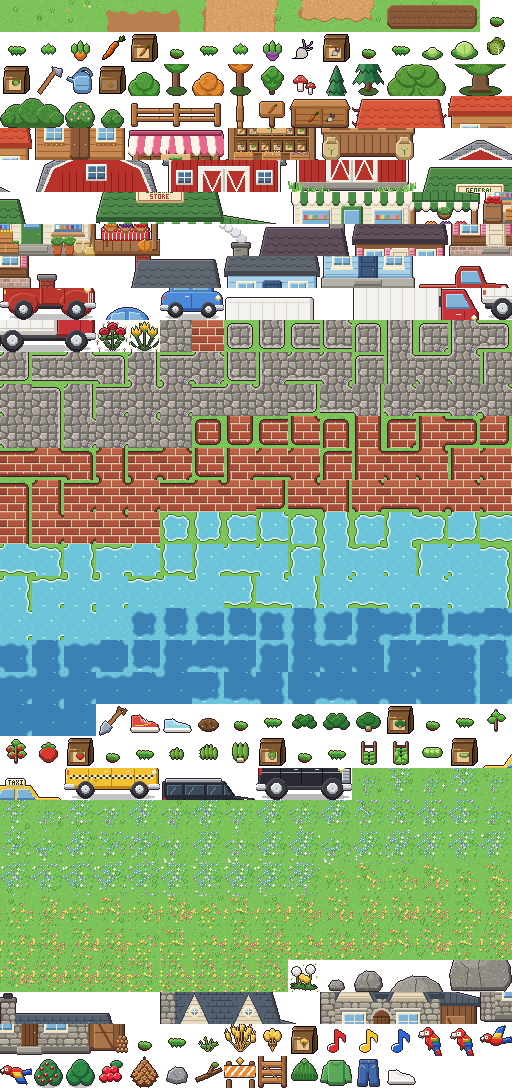
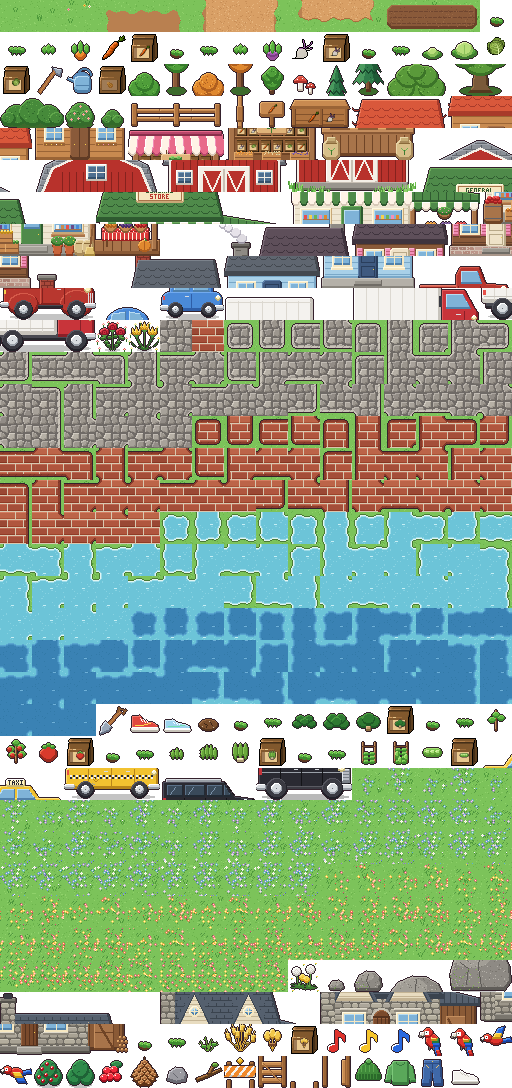
First story quest: Fredrick's pinecones unlock the road's gate
Talking to Fredrick asks for 5 pinecones (he reminds you while you're short,
then opens his shop). Handing them in pays 5g, and the road's gate swings open
at 1 AM that night, or by morning if you sleep first. Quest progress is saved.
New open-gate art; talk boxes work for shopkeepers too.

Claude-Session: https://claude.ai/code/session_015p9zHqe761HPZ9r97hGy59

Changed region(s): [[0.5625, 0.9688, 0.9375, 1.0]]

diff --git a/src/art-index.js b/src/art-index.js
@@ -1,2 +1,2 @@
 // Generated by tools/make_art.py: tile names -> index in assets/art/world.png (16 columns of 32x32).
-export const A = {"grass0": 0, "grass1": 1, "grass2": 2, "path0": 3, "path1": 4, "path2": 5, "path3": 6, "path4": 7, "path5": 8, "path6": 9, "path7": 10, "path8": 11, "soil0": 12, "soil1": 13, "soil2": 14, "carrot0": 15, "carrot1": 16, "carrot2": 17, "carrot3": 18, "carrot_item": 19, "carrot_packet": 20, "turnip0": 21, "turnip1": 22, "turnip2": 23, "turnip3": 24, "turnip_item": 25, "turnip_packet": 26, "cabbage0": 27, "cabbage1": 28, "cabbage2": 29, "cabbage3": 30, "cabbage_item": 31, "cabbage_packet": 32, "hoe": 33, "can": 34, "bag": 35, "tree_green_0": 36, "tree_green_1": 37, "tree_orange_0": 38, "tree_orange_1": 39, "tree": 40, "mushrooms": 41, "pine_0": 42, "pine_1": 43, "oak_0": 44, "oak_1": 45, "oak_2": 46, "oak_3": 47, "shrub_large_0": 48, "shrub_large_1": 49, "shrub_flower": 50, "shrub_small": 51, "fence0": 52, "fence1": 53, "fence2": 54, "fence3": 55, "sign": 56, "bin_0": 57, "bin_1": 58, "house_0": 59, "house_1": 60, "house_2": 61, "house_3": 62, "house_4": 63, "house_5": 64, "house_6": 65, "house_7": 66, "house_8": 67, "shop_0": 68, "shop_1": 69, "shop_2": 70, "shop_3": 71, "shop_4": 72, "shop_5": 73, "shop_6": 74, "shop_7": 75, "shop_8": 76, "barn_0": 77, "barn_1": 78, "barn_2": 79, "barn_3": 80, "barn_4": 81, "barn_5": 82, "barn_6": 83, "barn_7": 84, "barn_8": 85, "barn_9": 86, "barn_10": 87, "barn_11": 88, "barn_12": 89, "barn_13": 90, "barn_14": 91, "barn_15": 92, "store_0": 93, "store_1": 94, "store_2": 95, "store_3": 96, "store_4": 97, "store_5": 98, "store_6": 99, "store_7": 100, "store_8": 101, "store_9": 102, "store_10": 103, "store_11": 104, "store_12": 105, "store_13": 106, "store_14": 107, "store_15": 108, "store_16": 109, "store_17": 110, "store_18": 111, "store_19": 112, "store_20": 113, "store_21": 114, "store_22": 115, "store_23": 116, "house_brown_0": 117, "house_brown_1": 118, "house_brown_2": 119, "house_brown_3": 120, "house_brown_4": 121, "house_brown_5": 122, "house_brown_6": 123, "house_brown_7": 124, "house_brown_8": 125, "house_brown_9": 126, "house_brown_10": 127, "house_brown_11": 128, "house_blue_0": 129, "house_blue_1": 130, "house_blue_2": 131, "house_blue_3": 132, "house_blue_4": 133, "house_blue_5": 134, "house_blue_6": 135, "house_blue_7": 136, "house_blue_8": 137, "house_blue_9": 138, "house_blue_10": 139, "house_blue_11": 140, "pickup_0": 141, "pickup_1": 142, "pickup_2": 143, "pickup_3": 144, "pickup_4": 145, "pickup_5": 146, "car_small_0": 147, "car_small_1": 148, "car_small_2": 149, "car_small_3": 150, "box_truck_0": 151, "box_truck_1": 152, "box_truck_2": 153, "box_truck_3": 154, "box_truck_4": 155, "box_truck_5": 156, "box_truck_6": 157, "box_truck_7": 158, "box_truck_8": 159, "box_truck_9": 160, "box_truck_10": 161, "box_truck_11": 162, "roses": 163, "tulips": 164, "cobble0": 165, "brick0": 166, "cobbleb0": 167, "cobbleb1": 168, "cobbleb2": 169, "cobbleb3": 170, "cobbleb4": 171, "cobbleb5": 172, "cobbleb6": 173, "cobbleb7": 174, "cobbleb8": 175, "cobbleb9": 176, "cobbleb10": 177, "cobbleb11": 178, "cobbleb12": 179, "cobbleb13": 180, "cobbleb14": 181, "cobbleb15": 182, "cobbleb16": 183, "cobbleb17": 184, "cobbleb18": 185, "cobbleb19": 186, "cobbleb20": 187, "cobbleb21": 188, "cobbleb22": 189, "cobbleb23": 190, "cobbleb24": 191, "cobbleb25": 192, "cobbleb26": 193, "cobbleb27": 194, "cobbleb28": 195, "cobbleb29": 196, "cobbleb30": 197, "cobbleb31": 198, "cobbleb32": 199, "cobbleb33": 200, "cobbleb34": 201, "cobbleb35": 202, "cobbleb36": 203, "cobbleb37": 204, "cobbleb38": 205, "cobbleb39": 206, "cobbleb40": 207, "cobbleb41": 208, "cobbleb42": 209, "cobbleb43": 210, "cobbleb44": 211, "cobbleb45": 212, "cobbleb46": 213, "brickb0": 214, "brickb1": 215, "brickb2": 216, "brickb3": 217, "brickb4": 218, "brickb5": 219, "brickb6": 220, "brickb7": 221, "brickb8": 222, "brickb9": 223, "brickb10": 224, "brickb11": 225, "brickb12": 226, "brickb13": 227, "brickb14": 228, "brickb15": 229, "brickb16": 230, "brickb17": 231, "brickb18": 232, "brickb19": 233, "brickb20": 234, "brickb21": 235, "brickb22": 236, "brickb23": 237, "brickb24": 238, "brickb25": 239, "brickb26": 240, "brickb27": 241, "brickb28": 242, "brickb29": 243, "brickb30": 244, "brickb31": 245, "brickb32": 246, "brickb33": 247, "brickb34": 248, "brickb35": 249, "brickb36": 250, "brickb37": 251, "brickb38": 252, "brickb39": 253, "brickb40": 254, "brickb41": 255, "brickb42": 256, "brickb43": 257, "brickb44": 258, "brickb45": 259, "brickb46": 260, "shallow0": 261, "shallow1": 262, "shallow2": 263, "shallow3": 264, "shallow4": 265, "shallow5": 266, "shallow6": 267, "shallow7": 268, "shallow8": 269, "shallow9": 270, "shallow10": 271, "shallow11": 272, "shallow12": 273, "shallow13": 274, "shallow14": 275, "shallow15": 276, "shallow16": 277, "shallow17": 278, "shallow18": 279, "shallow19": 280, "shallow20": 281, "shallow21": 282, "shallow22": 283, "shallow23": 284, "shallow24": 285, "shallow25": 286, "shallow26": 287, "shallow27": 288, "shallow28": 289, "shallow29": 290, "shallow30": 291, "shallow31": 292, "shallow32": 293, "shallow33": 294, "shallow34": 295, "shallow35": 296, "shallow36": 297, "shallow37": 298, "shallow38": 299, "shallow39": 300, "shallow40": 301, "shallow41": 302, "shallow42": 303, "shallow43": 304, "shallow44": 305, "shallow45": 306, "shallow46": 307, "deep0": 308, "deep1": 309, "deep2": 310, "deep3": 311, "deep4": 312, "deep5": 313, "deep6": 314, "deep7": 315, "deep8": 316, "deep9": 317, "deep10": 318, "deep11": 319, "deep12": 320, "deep13": 321, "deep14": 322, "deep15": 323, "deep16": 324, "deep17": 325, "deep18": 326, "deep19": 327, "deep20": 328, "deep21": 329, "deep22": 330, "deep23": 331, "deep24": 332, "deep25": 333, "deep26": 334, "deep27": 335, "deep28": 336, "deep29": 337, "deep30": 338, "deep31": 339, "deep32": 340, "deep33": 341, "deep34": 342, "deep35": 343, "deep36": 344, "deep37": 345, "deep38": 346, "deep39": 347, "deep40": 348, "deep41": 349, "deep42": 350, "deep43": 351, "deep44": 352, "deep45": 353, "deep46": 354, "shovel": 355, "shoes": 356, "sneakers": 357, "dig_spot": 358, "spinach0": 359, "spinach1": 360, "spinach2": 361, "spinach3": 362, "spinach_item": 363, "spinach_packet": 364, "tomato0": 365, "tomato1": 366, "tomato2": 367, "tomato3": 368, "tomato_item": 369, "tomato_packet": 370, "arugula0": 371, "arugula1": 372, "arugula2": 373, "arugula3": 374, "arugula_item": 375, "arugula_packet": 376, "peas0": 377, "peas1": 378, "peas2": 379, "peas3": 380, "peas_item": 381, "peas_packet": 382, "taxi_0": 383, "taxi_1": 384, "taxi_2": 385, "taxi_3": 386, "taxi_4": 387, "taxi_5": 388, "suv_0": 389, "suv_1": 390, "suv_2": 391, "suv_3": 392, "suv_4": 393, "suv_5": 394, "wildcool0": 395, "wildcool1": 396, "wildcool2": 397, "wildcool3": 398, "wildcool4": 399, "wildcool5": 400, "wildcool6": 401, "wildcool7": 402, "wildcool8": 403, "wildcool9": 404, "wildcool10": 405, "wildcool11": 406, "wildcool12": 407, "wildcool13": 408, "wildcool14": 409, "wildcool15": 410, "wildcool16": 411, "wildcool17": 412, "wildcool18": 413, "wildcool19": 414, "wildcool20": 415, "wildcool21": 416, "wildcool22": 417, "wildcool23": 418, "wildcool24": 419, "wildcool25": 420, "wildcool26": 421, "wildcool27": 422, "wildcool28": 423, "wildcool29": 424, "wildcool30": 425, "wildcool31": 426, "wildcool32": 427, "wildcool33": 428, "wildcool34": 429, "wildcool35": 430, "wildcool36": 431, "wildcool37": 432, "wildcool38": 433, "wildcool39": 434, "wildcool40": 435, "wildcool41": 436, "wildcool42": 437, "wildcool43": 438, "wildcool44": 439, "wildcool45": 440, "wildcool46": 441, "wildwarm0": 442, "wildwarm1": 443, "wildwarm2": 444, "wildwarm3": 445, "wildwarm4": 446, "wildwarm5": 447, "wildwarm6": 448, "wildwarm7": 449, "wildwarm8": 450, "wildwarm9": 451, "wildwarm10": 452, "wildwarm11": 453, "wildwarm12": 454, "wildwarm13": 455, "wildwarm14": 456, "wildwarm15": 457, "wildwarm16": 458, "wildwarm17": 459, "wildwarm18": 460, "wildwarm19": 461, "wildwarm20": 462, "wildwarm21": 463, "wildwarm22": 464, "wildwarm23": 465, "wildwarm24": 466, "wildwarm25": 467, "wildwarm26": 468, "wildwarm27": 469, "wildwarm28": 470, "wildwarm29": 471, "wildwarm30": 472, "wildwarm31": 473, "wildwarm32": 474, "wildwarm33": 475, "wildwarm34": 476, "wildwarm35": 477, "wildwarm36": 478, "wildwarm37": 479, "wildwarm38": 480, "wildwarm39": 481, "wildwarm40": 482, "wildwarm41": 483, "wildwarm42": 484, "wildwarm43": 485, "wildwarm44": 486, "wildwarm45": 487, "wildwarm46": 488, "dandelions": 489, "rock_small": 490, "rock_medium": 491, "rock_large_0": 492, "rock_large_1": 493, "rock_large_2": 494, "rock_large_3": 495, "stone_house_0": 496, "stone_house_1": 497, "stone_house_2": 498, "stone_house_3": 499, "stone_house_4": 500, "stone_house_5": 501, "stone_house_6": 502, "stone_house_7": 503, "stone_house_8": 504, "stone_house_9": 505, "stone_house_10": 506, "stone_house_11": 507, "stone_house_12": 508, "stone_house_13": 509, "stone_house_14": 510, "stone_house_15": 511, "stone_house_16": 512, "stone_house_17": 513, "stone_house_18": 514, "stone_house_19": 515, "wheat0": 516, "wheat1": 517, "wheat2": 518, "wheat3": 519, "wheat_item": 520, "wheat_packet": 521, "note_red": 522, "note_yellow": 523, "note_blue": 524, "bird0": 525, "bird1": 526, "bird_fly0": 527, "bird_fly1": 528, "berry_bush": 529, "berry_bush_bare": 530, "berries": 531, "pinecone": 532, "stone": 533, "stick": 534, "gate_0": 535, "gate_1": 536, "beanie": 537, "longsleeve": 538, "jeans": 539, "white_sneakers": 540};
+export const A = {"grass0": 0, "grass1": 1, "grass2": 2, "path0": 3, "path1": 4, "path2": 5, "path3": 6, "path4": 7, "path5": 8, "path6": 9, "path7": 10, "path8": 11, "soil0": 12, "soil1": 13, "soil2": 14, "carrot0": 15, "carrot1": 16, "carrot2": 17, "carrot3": 18, "carrot_item": 19, "carrot_packet": 20, "turnip0": 21, "turnip1": 22, "turnip2": 23, "turnip3": 24, "turnip_item": 25, "turnip_packet": 26, "cabbage0": 27, "cabbage1": 28, "cabbage2": 29, "cabbage3": 30, "cabbage_item": 31, "cabbage_packet": 32, "hoe": 33, "can": 34, "bag": 35, "tree_green_0": 36, "tree_green_1": 37, "tree_orange_0": 38, "tree_orange_1": 39, "tree": 40, "mushrooms": 41, "pine_0": 42, "pine_1": 43, "oak_0": 44, "oak_1": 45, "oak_2": 46, "oak_3": 47, "shrub_large_0": 48, "shrub_large_1": 49, "shrub_flower": 50, "shrub_small": 51, "fence0": 52, "fence1": 53, "fence2": 54, "fence3": 55, "sign": 56, "bin_0": 57, "bin_1": 58, "house_0": 59, "house_1": 60, "house_2": 61, "house_3": 62, "house_4": 63, "house_5": 64, "house_6": 65, "house_7": 66, "house_8": 67, "shop_0": 68, "shop_1": 69, "shop_2": 70, "shop_3": 71, "shop_4": 72, "shop_5": 73, "shop_6": 74, "shop_7": 75, "shop_8": 76, "barn_0": 77, "barn_1": 78, "barn_2": 79, "barn_3": 80, "barn_4": 81, "barn_5": 82, "barn_6": 83, "barn_7": 84, "barn_8": 85, "barn_9": 86, "barn_10": 87, "barn_11": 88, "barn_12": 89, "barn_13": 90, "barn_14": 91, "barn_15": 92, "store_0": 93, "store_1": 94, "store_2": 95, "store_3": 96, "store_4": 97, "store_5": 98, "store_6": 99, "store_7": 100, "store_8": 101, "store_9": 102, "store_10": 103, "store_11": 104, "store_12": 105, "store_13": 106, "store_14": 107, "store_15": 108, "store_16": 109, "store_17": 110, "store_18": 111, "store_19": 112, "store_20": 113, "store_21": 114, "store_22": 115, "store_23": 116, "house_brown_0": 117, "house_brown_1": 118, "house_brown_2": 119, "house_brown_3": 120, "house_brown_4": 121, "house_brown_5": 122, "house_brown_6": 123, "house_brown_7": 124, "house_brown_8": 125, "house_brown_9": 126, "house_brown_10": 127, "house_brown_11": 128, "house_blue_0": 129, "house_blue_1": 130, "house_blue_2": 131, "house_blue_3": 132, "house_blue_4": 133, "house_blue_5": 134, "house_blue_6": 135, "house_blue_7": 136, "house_blue_8": 137, "house_blue_9": 138, "house_blue_10": 139, "house_blue_11": 140, "pickup_0": 141, "pickup_1": 142, "pickup_2": 143, "pickup_3": 144, "pickup_4": 145, "pickup_5": 146, "car_small_0": 147, "car_small_1": 148, "car_small_2": 149, "car_small_3": 150, "box_truck_0": 151, "box_truck_1": 152, "box_truck_2": 153, "box_truck_3": 154, "box_truck_4": 155, "box_truck_5": 156, "box_truck_6": 157, "box_truck_7": 158, "box_truck_8": 159, "box_truck_9": 160, "box_truck_10": 161, "box_truck_11": 162, "roses": 163, "tulips": 164, "cobble0": 165, "brick0": 166, "cobbleb0": 167, "cobbleb1": 168, "cobbleb2": 169, "cobbleb3": 170, "cobbleb4": 171, "cobbleb5": 172, "cobbleb6": 173, "cobbleb7": 174, "cobbleb8": 175, "cobbleb9": 176, "cobbleb10": 177, "cobbleb11": 178, "cobbleb12": 179, "cobbleb13": 180, "cobbleb14": 181, "cobbleb15": 182, "cobbleb16": 183, "cobbleb17": 184, "cobbleb18": 185, "cobbleb19": 186, "cobbleb20": 187, "cobbleb21": 188, "cobbleb22": 189, "cobbleb23": 190, "cobbleb24": 191, "cobbleb25": 192, "cobbleb26": 193, "cobbleb27": 194, "cobbleb28": 195, "cobbleb29": 196, "cobbleb30": 197, "cobbleb31": 198, "cobbleb32": 199, "cobbleb33": 200, "cobbleb34": 201, "cobbleb35": 202, "cobbleb36": 203, "cobbleb37": 204, "cobbleb38": 205, "cobbleb39": 206, "cobbleb40": 207, "cobbleb41": 208, "cobbleb42": 209, "cobbleb43": 210, "cobbleb44": 211, "cobbleb45": 212, "cobbleb46": 213, "brickb0": 214, "brickb1": 215, "brickb2": 216, "brickb3": 217, "brickb4": 218, "brickb5": 219, "brickb6": 220, "brickb7": 221, "brickb8": 222, "brickb9": 223, "brickb10": 224, "brickb11": 225, "brickb12": 226, "brickb13": 227, "brickb14": 228, "brickb15": 229, "brickb16": 230, "brickb17": 231, "brickb18": 232, "brickb19": 233, "brickb20": 234, "brickb21": 235, "brickb22": 236, "brickb23": 237, "brickb24": 238, "brickb25": 239, "brickb26": 240, "brickb27": 241, "brickb28": 242, "brickb29": 243, "brickb30": 244, "brickb31": 245, "brickb32": 246, "brickb33": 247, "brickb34": 248, "brickb35": 249, "brickb36": 250, "brickb37": 251, "brickb38": 252, "brickb39": 253, "brickb40": 254, "brickb41": 255, "brickb42": 256, "brickb43": 257, "brickb44": 258, "brickb45": 259, "brickb46": 260, "shallow0": 261, "shallow1": 262, "shallow2": 263, "shallow3": 264, "shallow4": 265, "shallow5": 266, "shallow6": 267, "shallow7": 268, "shallow8": 269, "shallow9": 270, "shallow10": 271, "shallow11": 272, "shallow12": 273, "shallow13": 274, "shallow14": 275, "shallow15": 276, "shallow16": 277, "shallow17": 278, "shallow18": 279, "shallow19": 280, "shallow20": 281, "shallow21": 282, "shallow22": 283, "shallow23": 284, "shallow24": 285, "shallow25": 286, "shallow26": 287, "shallow27": 288, "shallow28": 289, "shallow29": 290, "shallow30": 291, "shallow31": 292, "shallow32": 293, "shallow33": 294, "shallow34": 295, "shallow35": 296, "shallow36": 297, "shallow37": 298, "shallow38": 299, "shallow39": 300, "shallow40": 301, "shallow41": 302, "shallow42": 303, "shallow43": 304, "shallow44": 305, "shallow45": 306, "shallow46": 307, "deep0": 308, "deep1": 309, "deep2": 310, "deep3": 311, "deep4": 312, "deep5": 313, "deep6": 314, "deep7": 315, "deep8": 316, "deep9": 317, "deep10": 318, "deep11": 319, "deep12": 320, "deep13": 321, "deep14": 322, "deep15": 323, "deep16": 324, "deep17": 325, "deep18": 326, "deep19": 327, "deep20": 328, "deep21": 329, "deep22": 330, "deep23": 331, "deep24": 332, "deep25": 333, "deep26": 334, "deep27": 335, "deep28": 336, "deep29": 337, "deep30": 338, "deep31": 339, "deep32": 340, "deep33": 341, "deep34": 342, "deep35": 343, "deep36": 344, "deep37": 345, "deep38": 346, "deep39": 347, "deep40": 348, "deep41": 349, "deep42": 350, "deep43": 351, "deep44": 352, "deep45": 353, "deep46": 354, "shovel": 355, "shoes": 356, "sneakers": 357, "dig_spot": 358, "spinach0": 359, "spinach1": 360, "spinach2": 361, "spinach3": 362, "spinach_item": 363, "spinach_packet": 364, "tomato0": 365, "tomato1": 366, "tomato2": 367, "tomato3": 368, "tomato_item": 369, "tomato_packet": 370, "arugula0": 371, "arugula1": 372, "arugula2": 373, "arugula3": 374, "arugula_item": 375, "arugula_packet": 376, "peas0": 377, "peas1": 378, "peas2": 379, "peas3": 380, "peas_item": 381, "peas_packet": 382, "taxi_0": 383, "taxi_1": 384, "taxi_2": 385, "taxi_3": 386, "taxi_4": 387, "taxi_5": 388, "suv_0": 389, "suv_1": 390, "suv_2": 391, "suv_3": 392, "suv_4": 393, "suv_5": 394, "wildcool0": 395, "wildcool1": 396, "wildcool2": 397, "wildcool3": 398, "wildcool4": 399, "wildcool5": 400, "wildcool6": 401, "wildcool7": 402, "wildcool8": 403, "wildcool9": 404, "wildcool10": 405, "wildcool11": 406, "wildcool12": 407, "wildcool13": 408, "wildcool14": 409, "wildcool15": 410, "wildcool16": 411, "wildcool17": 412, "wildcool18": 413, "wildcool19": 414, "wildcool20": 415, "wildcool21": 416, "wildcool22": 417, "wildcool23": 418, "wildcool24": 419, "wildcool25": 420, "wildcool26": 421, "wildcool27": 422, "wildcool28": 423, "wildcool29": 424, "wildcool30": 425, "wildcool31": 426, "wildcool32": 427, "wildcool33": 428, "wildcool34": 429, "wildcool35": 430, "wildcool36": 431, "wildcool37": 432, "wildcool38": 433, "wildcool39": 434, "wildcool40": 435, "wildcool41": 436, "wildcool42": 437, "wildcool43": 438, "wildcool44": 439, "wildcool45": 440, "wildcool46": 441, "wildwarm0": 442, "wildwarm1": 443, "wildwarm2": 444, "wildwarm3": 445, "wildwarm4": 446, "wildwarm5": 447, "wildwarm6": 448, "wildwarm7": 449, "wildwarm8": 450, "wildwarm9": 451, "wildwarm10": 452, "wildwarm11": 453, "wildwarm12": 454, "wildwarm13": 455, "wildwarm14": 456, "wildwarm15": 457, "wildwarm16": 458, "wildwarm17": 459, "wildwarm18": 460, "wildwarm19": 461, "wildwarm20": 462, "wildwarm21": 463, "wildwarm22": 464, "wildwarm23": 465, "wildwarm24": 466, "wildwarm25": 467, "wildwarm26": 468, "wildwarm27": 469, "wildwarm28": 470, "wildwarm29": 471, "wildwarm30": 472, "wildwarm31": 473, "wildwarm32": 474, "wildwarm33": 475, "wildwarm34": 476, "wildwarm35": 477, "wildwarm36": 478, "wildwarm37": 479, "wildwarm38": 480, "wildwarm39": 481, "wildwarm40": 482, "wildwarm41": 483, "wildwarm42": 484, "wildwarm43": 485, "wildwarm44": 486, "wildwarm45": 487, "wildwarm46": 488, "dandelions": 489, "rock_small": 490, "rock_medium": 491, "rock_large_0": 492, "rock_large_1": 493, "rock_large_2": 494, "rock_large_3": 495, "stone_house_0": 496, "stone_house_1": 497, "stone_house_2": 498, "stone_house_3": 499, "stone_house_4": 500, "stone_house_5": 501, "stone_house_6": 502, "stone_house_7": 503, "stone_house_8": 504, "stone_house_9": 505, "stone_house_10": 506, "stone_house_11": 507, "stone_house_12": 508, "stone_house_13": 509, "stone_house_14": 510, "stone_house_15": 511, "stone_house_16": 512, "stone_house_17": 513, "stone_house_18": 514, "stone_house_19": 515, "wheat0": 516, "wheat1": 517, "wheat2": 518, "wheat3": 519, "wheat_item": 520, "wheat_packet": 521, "note_red": 522, "note_yellow": 523, "note_blue": 524, "bird0": 525, "bird1": 526, "bird_fly0": 527, "bird_fly1": 528, "berry_bush": 529, "berry_bush_bare": 530, "berries": 531, "pinecone": 532, "stone": 533, "stick": 534, "gate_0": 535, "gate_1": 536, "gate_open_0": 537, "gate_open_1": 538, "beanie": 539, "longsleeve": 540, "jeans": 541, "white_sneakers": 542};

diff --git a/src/scenes.js b/src/scenes.js
@@ -1,7 +1,7 @@
 // Game scenes: main menu -> character select -> farm.
 import { TILE, DIRS, Walker } from './engine.js';
 import { Clock, MAX_ENERGY, SEASONS, DAYS_PER_SEASON } from './clock.js';
-import { editorMaps, exitRows, isPaved, OPPOSITE } from './map-data.js';
+import { editorMaps, exitRows, isPaved, OPPOSITE, PREFABS } from './map-data.js';
 import { LOCATIONS } from './locations.js';
 
 const FARM_LAYOUT = 2; // bump when the farm map changes, so saved plant moves from the old layout are dropped
@@ -13,6 +13,7 @@ import { SCHEDULES, activity, weekday } from './schedule.js';
 import { GOODS, STORE_HOURS, WEAR_SLOTS, storeOpen, goodsOf } from './store.js';
 import { Events, MINSTREL_LINES } from './events.js';
 import { GATES } from './unlocks.js';
+import { Quests } from './quests.js';
 import { FORAGE, SPREAD, scatterForage, bushAt, pickBush, regrowBushes } from './forage.js';
 import { PLANTS, DIG_SPOTS, DIG_ENERGY, scatterDigs, digFind } from './dig.js';
 import { A } from './art-index.js';
@@ -197,7 +198,9 @@ export class World {
     this.shop = false;
     this.open = false; this.pick = -1;
     this.events = new Events(); // today's random events
+    this.quests = new Quests();
     this.clock.on('overnight', () => {
+      this.quests.tick(0, true);
       const k = this.clock, next = k.day >= DAYS_PER_SEASON ? (k.season + 1) % SEASONS.length : k.season;
       this.field.overnight(); this.support.overnight(Math.random, next); this.scatterDigs();
       this.paid = this.binValue(this.inv.emptyBin()); this.withered = 0;
@@ -209,7 +212,7 @@ export class World {
       this.map = this.maps.farm; Object.assign(this, this.map.spawn); this.player.dir = DIRS.down; // wake up outside the front door
       this.events.newDay();
       const saved = writeSave(this.slot, this.snapshot());
-      this.say((passedOut ? 'You passed out! Half energy today.' : 'Good morning!') + (this.paid ? ` Shipping paid ${this.paid}g.` : '') + (this.withered ? ` ${this.withered} out-of-season crop${this.withered > 1 ? 's' : ''} withered.` : '') + (saved ? ' Game saved.' : ''));
+      this.say((passedOut ? 'You passed out! Half energy today.' : 'Good morning!') + this.openGates() + (this.paid ? ` Shipping paid ${this.paid}g.` : '') + (this.withered ? ` ${this.withered} out-of-season crop${this.withered > 1 ? 's' : ''} withered.` : '') + (saved ? ' Game saved.' : ''));
     });
     if (this.save) this.restore(this.save); else writeSave(this.slot, this.snapshot());
     playMusic(); // one of two tracks, picked at random each time you enter
@@ -219,7 +222,7 @@ export class World {
   snapshot() {
     const k = this.clock;
     return {
-      v: 1, layout: FARM_LAYOUT, sheet: this.sheet, gold: this.gold, seeds: this.seeds, seed: this.seed, gear: this.gear, worn: this.worn, moved: this.moved,
+      v: 1, layout: FARM_LAYOUT, sheet: this.sheet, gold: this.gold, seeds: this.seeds, seed: this.seed, gear: this.gear, worn: this.worn, moved: this.moved, quests: this.quests.state,
       clock: { day: k.day, season: k.season, year: k.year, energy: k.energy },
       plots: [...this.field.plots].filter(([, p]) => p), slots: this.inv.slots, sel: this.inv.sel, support: this.support.state,
     };
@@ -232,6 +235,7 @@ export class World {
     this.moved = s.layout === FARM_LAYOUT && s.moved || { gone: [], put: [] }; // plants moved on an older farm layout don't carry over
     for (const key of this.moved.gone) this.unplant(key);
     for (const [key, id] of this.moved.put) this.plant(key, id);
+    this.quests = new Quests(s.quests);
     this.wear();
     this.support = new Support(s.support);
     this.say('Welcome back!');
@@ -285,6 +289,7 @@ export class World {
     this.clock.update(dt * 1000);
     this.schedule();
     this.events.update(this, dt);
+    this.quests.tick(this.clock.minutes); this.openGates();
     if (this.toastT > 0) this.toastT -= dt;
     if (this.banner) this.banner.t += dt;
     if (this.open) return this.player.update(dt, false);
@@ -344,6 +349,18 @@ export class World {
     if (hood) m.villagers.push(new Villager({ sheet: 'wanderer', x: hood.x, y: hood.y, size: 0 }));
   }
   get villagers() { return this.map.villagers; }
+  // Swing open any gate whose unlock has been earned; returns its news (for the morning message), or ''.
+  openGates() {
+    let news = '';
+    for (const [id, g] of Object.entries(GATES)) {
+      const m = this.maps[id];
+      if (!m?.gates.length || !g.open(this)) continue;
+      for (const o of m.objects) if (o.tiles[0][0] === 'gate_0') o.tiles = PREFABS.gate_open.tiles;
+      for (const k of m.gates) { const [x, y] = k.split(',').map(Number); m.solid[y * m.W + x] = 0; }
+      m.gates = []; news += ` ${g.opened}`;
+    }
+    return news;
+  }
   // Pick up forage (pinecones, stones) you walk over.
   gather() {
     const k = `${Math.floor((this.x + 8) / TILE)},${Math.floor((this.y + 13) / TILE)}`, id = this.map.forage?.get(k);
@@ -426,6 +443,13 @@ export class World {
       const pick = a => a[Math.floor(Math.random() * a.length)], hi = !v.met; v.met = true;
       return this.say(`${v.name}: ${hi ? `Oh, hello! I'm ${v.name}. ${pick(HELLOS)}` : pick(LINES)}`);
     }
+    const q = v && this.quests.talk(v.walker.sheet, id => this.inv.count(id), (id, n) => this.inv.take(id, n));
+    if (q?.lines) { // a quest conversation
+      v.walker.dir = [DIRS.up, DIRS.right, DIRS.left, DIRS.down][this.player.dir]; v.wait = 2;
+      if (q.gold) { this.gold += q.gold; sfx('coin'); }
+      this.talk = { id: v.walker.sheet, name: KEEPERS[v.walker.sheet]?.name ?? PEOPLE[v.walker.sheet]?.name, lines: q.lines }; return;
+    }
+    if (q?.remind) this.say(`${KEEPERS[v.walker.sheet]?.name ?? PEOPLE[v.walker.sheet]?.name}: ${q.remind}`);
     if (v) return v.role !== 'shop' ? this.meet(v) : this.closed(v.walker.sheet) ? this.say(this.closed(v.walker.sheet)) : this.openShop(v);
     if (key === this.map.door) { sfx('sleep'); return this.clock.sleep(); }
     if (this.map.gates?.includes(key)) { const g = GATES[this.mapId]; if (g && !g.open(this)) return this.say(g.locked); }
@@ -531,11 +555,11 @@ export class World {
     return out;
   }
   drawTalk() {
-    const g = this.g, { id, lines } = this.talk, who = PEOPLE[id], w = Math.min(g.w - 16, 220), x = Math.round(g.w / 2 - w / 2);
+    const g = this.g, { id, lines } = this.talk, who = PEOPLE[id], w = Math.min(g.w - 16, 220), x = Math.round(g.w / 2 - w / 2); // who: villagers with hearts
     const paras = lines.map(l => this.wrap(l, w - 12, 6)), h = 26 + paras.flat().length * 8 + (paras.length - 1) * 4, y = g.h - h - 34;
     g.panel(x, y, w, h, '#3f2631f2');
-    g.text(who.name, x + 6, y + 4, { size: 7, color: '#fff3a8' });
-    drawHearts(g, x + w - 6 - MAX_HEARTS * 6, y + 6, this.support.hearts(id));
+    g.text(this.talk.name ?? who.name, x + 6, y + 4, { size: 7, color: '#fff3a8' });
+    if (who) drawHearts(g, x + w - 6 - MAX_HEARTS * 6, y + 6, this.support.hearts(id));
     let ty = y + 16;
     for (const p of paras) { for (const l of p) { g.text(l, x + 6, ty, { size: 6 }); ty += 8; } ty += 4; }
     g.text('Tap or press Space', x + w - 6, y + h - 9, { size: 5, align: 'right', color: '#dcebc6' });

diff --git a/src/quests.js b/src/quests.js
@@ -1,0 +1,33 @@
+// Story quests: set requests from particular people, each done once. (Villagers' everyday random requests are in support.js.)
+// Talking to the giver asks; talking again with the items hands them in. Some quests open a gate (see unlocks.js).
+export const QUESTS = {
+  pinecones: {
+    giver: 'shopkeeper', item: 'pinecone', n: 5, gold: 5,
+    ask: "I was hoping to go gather some pinecones, this morning. But, they blocked off my usual place, down on the road and now I'm too busy. Can you help me out?",
+    remind: n => `Any luck with those pinecones? (${n}/5)`,
+    thanks: 'Great! Thank you! I hope they finish what they are doing soon, so I can get out there tomorrow morning.',
+    opensAt: 25 * 60, // the road's gate opens at 1 AM that night (or by morning, if you sleep first)
+  },
+};
+
+export class Quests {
+  constructor(state) { this.state = JSON.parse(JSON.stringify(state ?? {})); } // id -> { step: 'asked' | 'done', open }
+  // Talking to `giver`: { lines, gold } for a quest conversation, { remind } while they're waiting, or null.
+  talk(giver, count, take) {
+    for (const [id, q] of Object.entries(QUESTS)) {
+      if (q.giver !== giver) continue;
+      const s = this.state[id];
+      if (!s) { this.state[id] = { step: 'asked' }; return { lines: [q.ask] }; }
+      if (s.step !== 'asked') continue;
+      if (count(q.item) < q.n) return { remind: q.remind(count(q.item)) };
+      take(q.item, q.n); s.step = 'done';
+      return { lines: [q.thanks, `(+${q.gold}g)`], gold: q.gold };
+    }
+    return null;
+  }
+  // Finished quests whose reward waits for a time of night come due at that time, or overnight.
+  tick(minutes, night = false) {
+    for (const [id, s] of Object.entries(this.state)) if (s.step === 'done' && !s.open && (night || minutes >= (QUESTS[id].opensAt ?? 0))) s.open = true;
+  }
+  isOpen(id) { return !!this.state[id]?.open; }
+}

diff --git a/test/quests.test.js b/test/quests.test.js
@@ -1,0 +1,20 @@
+import test from 'node:test';
+import assert from 'node:assert/strict';
+import { Quests, QUESTS } from '../src/quests.js';
+import { GATES } from '../src/unlocks.js';
+
+test("Fredrick's pinecone quest: ask, remind, hand in 5 for 5g, gate opens at 1 AM", () => {
+  const q = new Quests(), bag = { pinecone: 3 }, count = id => bag[id] ?? 0, take = (id, n) => (bag[id] -= n);
+  assert.match(q.talk('shopkeeper', count, take).lines[0], /blocked off my usual place/);
+  assert.equal(q.talk('shopkeeper', count, take).remind, 'Any luck with those pinecones? (3/5)');
+  assert.equal(q.talk('villager_male', count, take), null);
+  bag.pinecone = 6;
+  const done = q.talk('shopkeeper', count, take);
+  assert.equal(done.gold, 5); assert.equal(bag.pinecone, 1); assert.match(done.lines[0], /^Great! Thank you!/);
+  assert.equal(q.talk('shopkeeper', count, take), null); // nothing more to say: the shop opens as usual
+  const w = { quests: q };
+  q.tick(24 * 60 + 50); assert.equal(GATES.road.open(w), false);
+  q.tick(25 * 60); assert.equal(GATES.road.open(w), true);
+  const slept = new Quests({ pinecones: { step: 'done' } }); slept.tick(0, true); assert.ok(slept.isOpen('pinecones')); // slept before 1 AM
+  assert.equal(QUESTS.pinecones.n, 5);
+});

diff --git a/src/map-data.js b/src/map-data.js
@@ -39,7 +39,7 @@ const SIZES = {
   house: { w: 3, h: 3 }, shop: { w: 3, h: 3 }, barn: { w: 4, h: 4, solid: 3 }, bin: { w: 2, h: 1 },
   tree_green: { w: 1, h: 2, solid: 1 }, tree_orange: { w: 1, h: 2, solid: 1 },
   pine: { w: 1, h: 2, solid: 1 }, oak: { w: 2, h: 2, solid: 1 }, shrub_large: { w: 2, h: 1 },
-  house_brown: { w: 3, h: 4, solid: 3 }, house_blue: { w: 3, h: 4, solid: 3 }, gate: { w: 1, h: 2 },
+  house_brown: { w: 3, h: 4, solid: 3 }, house_blue: { w: 3, h: 4, solid: 3 }, gate: { w: 1, h: 2 }, gate_open: { w: 1, h: 2, solid: 0 },
   store: { w: 6, h: 4, solid: 3, cols: { 4: 1, 5: 1 }, door: 2 },   pickup: { w: 3, h: 2, solid: 1 }, car_small: { w: 2, h: 2, solid: 1 }, box_truck: { w: 4, h: 3, solid: 2 },
   taxi: { w: 3, h: 2, solid: 1 }, suv: { w: 3, h: 2, solid: 1 }, rock_large: { w: 2, h: 2, solid: 1 }, stone_house: { w: 5, h: 4, solid: 3 },
 };

diff --git a/test/map-data.test.js b/test/map-data.test.js
@@ -86,7 +86,7 @@ test('the road has a locked gate at the foot of a path down its right side', asy
   assert.ok(m.solid[28 * m.W + 38] && m.solid[27 * m.W + 38]);
   for (let y = 18; y < m.H; y++) assert.ok(m.ground[y * m.W + 38].startsWith('path'), `row ${y}`);
   assert.deepEqual(exitRowsOf(m), [15, 16, 17]); // the new path doesn't make a new exit
-  assert.equal(GATES.road.locked, 'Under Construction'); assert.equal(GATES.road.open(), false);
+  assert.equal(GATES.road.locked, 'Under Construction'); assert.equal(GATES.road.open({ quests: { isOpen: () => false } }), false);
 });
 const exitRowsOf = m => [...Array(m.H).keys()].filter(y => /^(path|cobble)/.test(m.ground[y * m.W + m.W - 1]));
 

diff --git a/src/unlocks.js b/src/unlocks.js
@@ -1,5 +1,4 @@
-// Locked areas. Each map's gate stays shut, and says `locked` when you Use it, until open(world) is true.
-// The road's gate leads south to an area still being built; its unlock is picked once that area is fleshed out.
+// Locked areas. Each map's gate stays shut, and says `locked` when you Use it, until open(world) is true; then it swings open.
 export const GATES = {
-  road: { locked: 'Under Construction', open: () => false },
+  road: { locked: 'Under Construction', open: w => w.quests.isOpen('pinecones'), opened: 'The gate on the road is open now.' }, // Fredrick's pinecone quest
 };

diff --git a/tools/make_art.py b/tools/make_art.py
@@ -1237,6 +1237,11 @@ def stone():  # a grey stone for gathering (smaller and rounder than the map's r
     d = ImageDraw.Draw(im); d.line([(13, 17), (17, 21)], C('#6a6a72')); d.point((20, 16), C('#e0e0e6'))
     return outline(im)
 
+def gate_open():  # the same gate swung open: posts stand, the gate folds back flat against the right post, the board is gone
+    im = new(S, 2 * S)
+    for x in (3, 26): shape(im, lambda d, x=x: d.rectangle([x, 26, x + 3, 62]), '#9a6436', '#b07440', '#6f4426', 1)
+    shape(im, lambda d: d.rectangle([22, 36, 25, 60]), '#c88a50', '#e0a96a', '#9a6436', 1)  # gate seen edge-on
+    return outline(im)
 # The gate to a locked area: posts and a plank gate (bottom tile), with a striped "under construction" board on top.
 def gate():
     im = new(S, 2 * S)
@@ -1299,7 +1304,7 @@ for st in range(4): add(f'wheat{st}', crop('wheat', st))
 add('wheat_item', wheat_item()); add('wheat_packet', packet(wheat_item()))
 for name, col in (('note_red', '#e0322c'), ('note_yellow', '#f6c62c'), ('note_blue', '#2a6ae0')): add(name, music_note(col))
 add('bird0', macaw(0)); add('bird1', macaw(1)); add('bird_fly0', macaw(0, True)); add('bird_fly1', macaw(1, True))
-add('berry_bush', berry_bush()); add('berry_bush_bare', berry_bush(False)); add('berries', berries_item()); add('pinecone', pinecone()); add('stone', stone()); add('stick', stick()); add('gate', gate())
+add('berry_bush', berry_bush()); add('berry_bush_bare', berry_bush(False)); add('berries', berries_item()); add('pinecone', pinecone()); add('stone', stone()); add('stick', stick()); add('gate', gate()); add('gate_open', gate_open())
 add('beanie', beanie()); add('longsleeve', longsleeve()); add('jeans', jeans()); add('white_sneakers', white_sneakers())
 COLS = 16
 sheet = new(COLS * S, math.ceil(len(cells) / COLS) * S)
